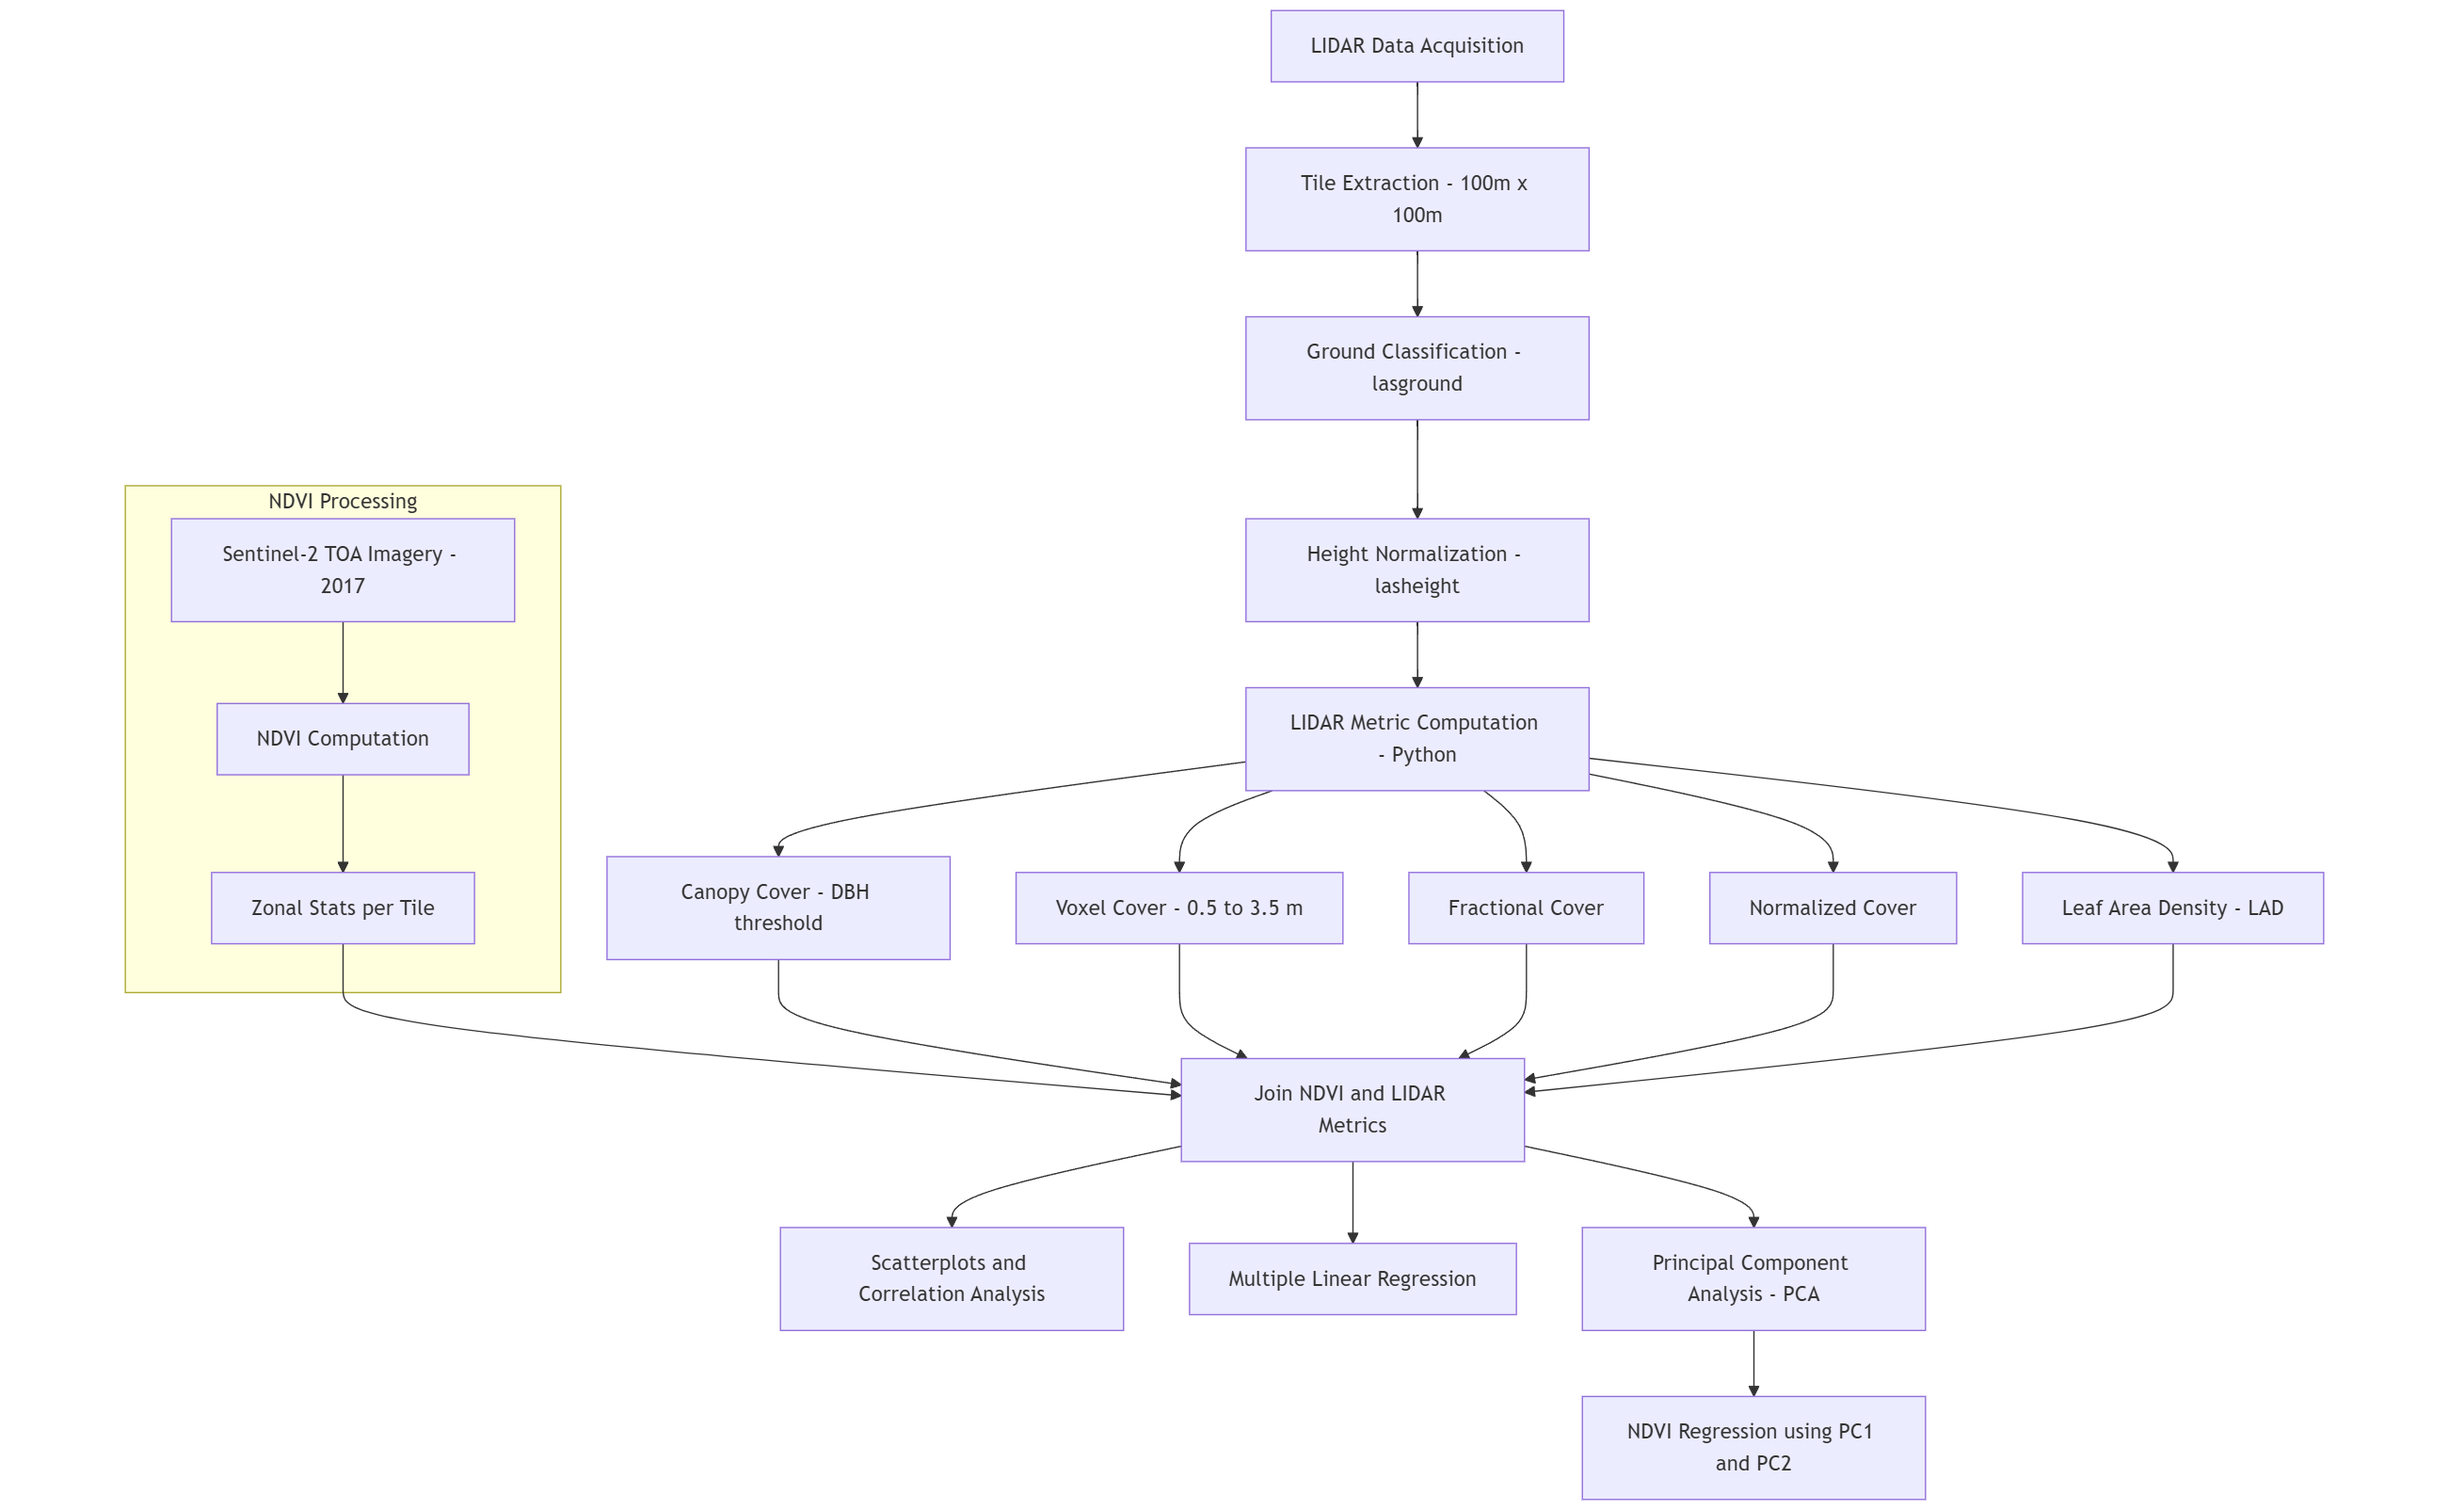
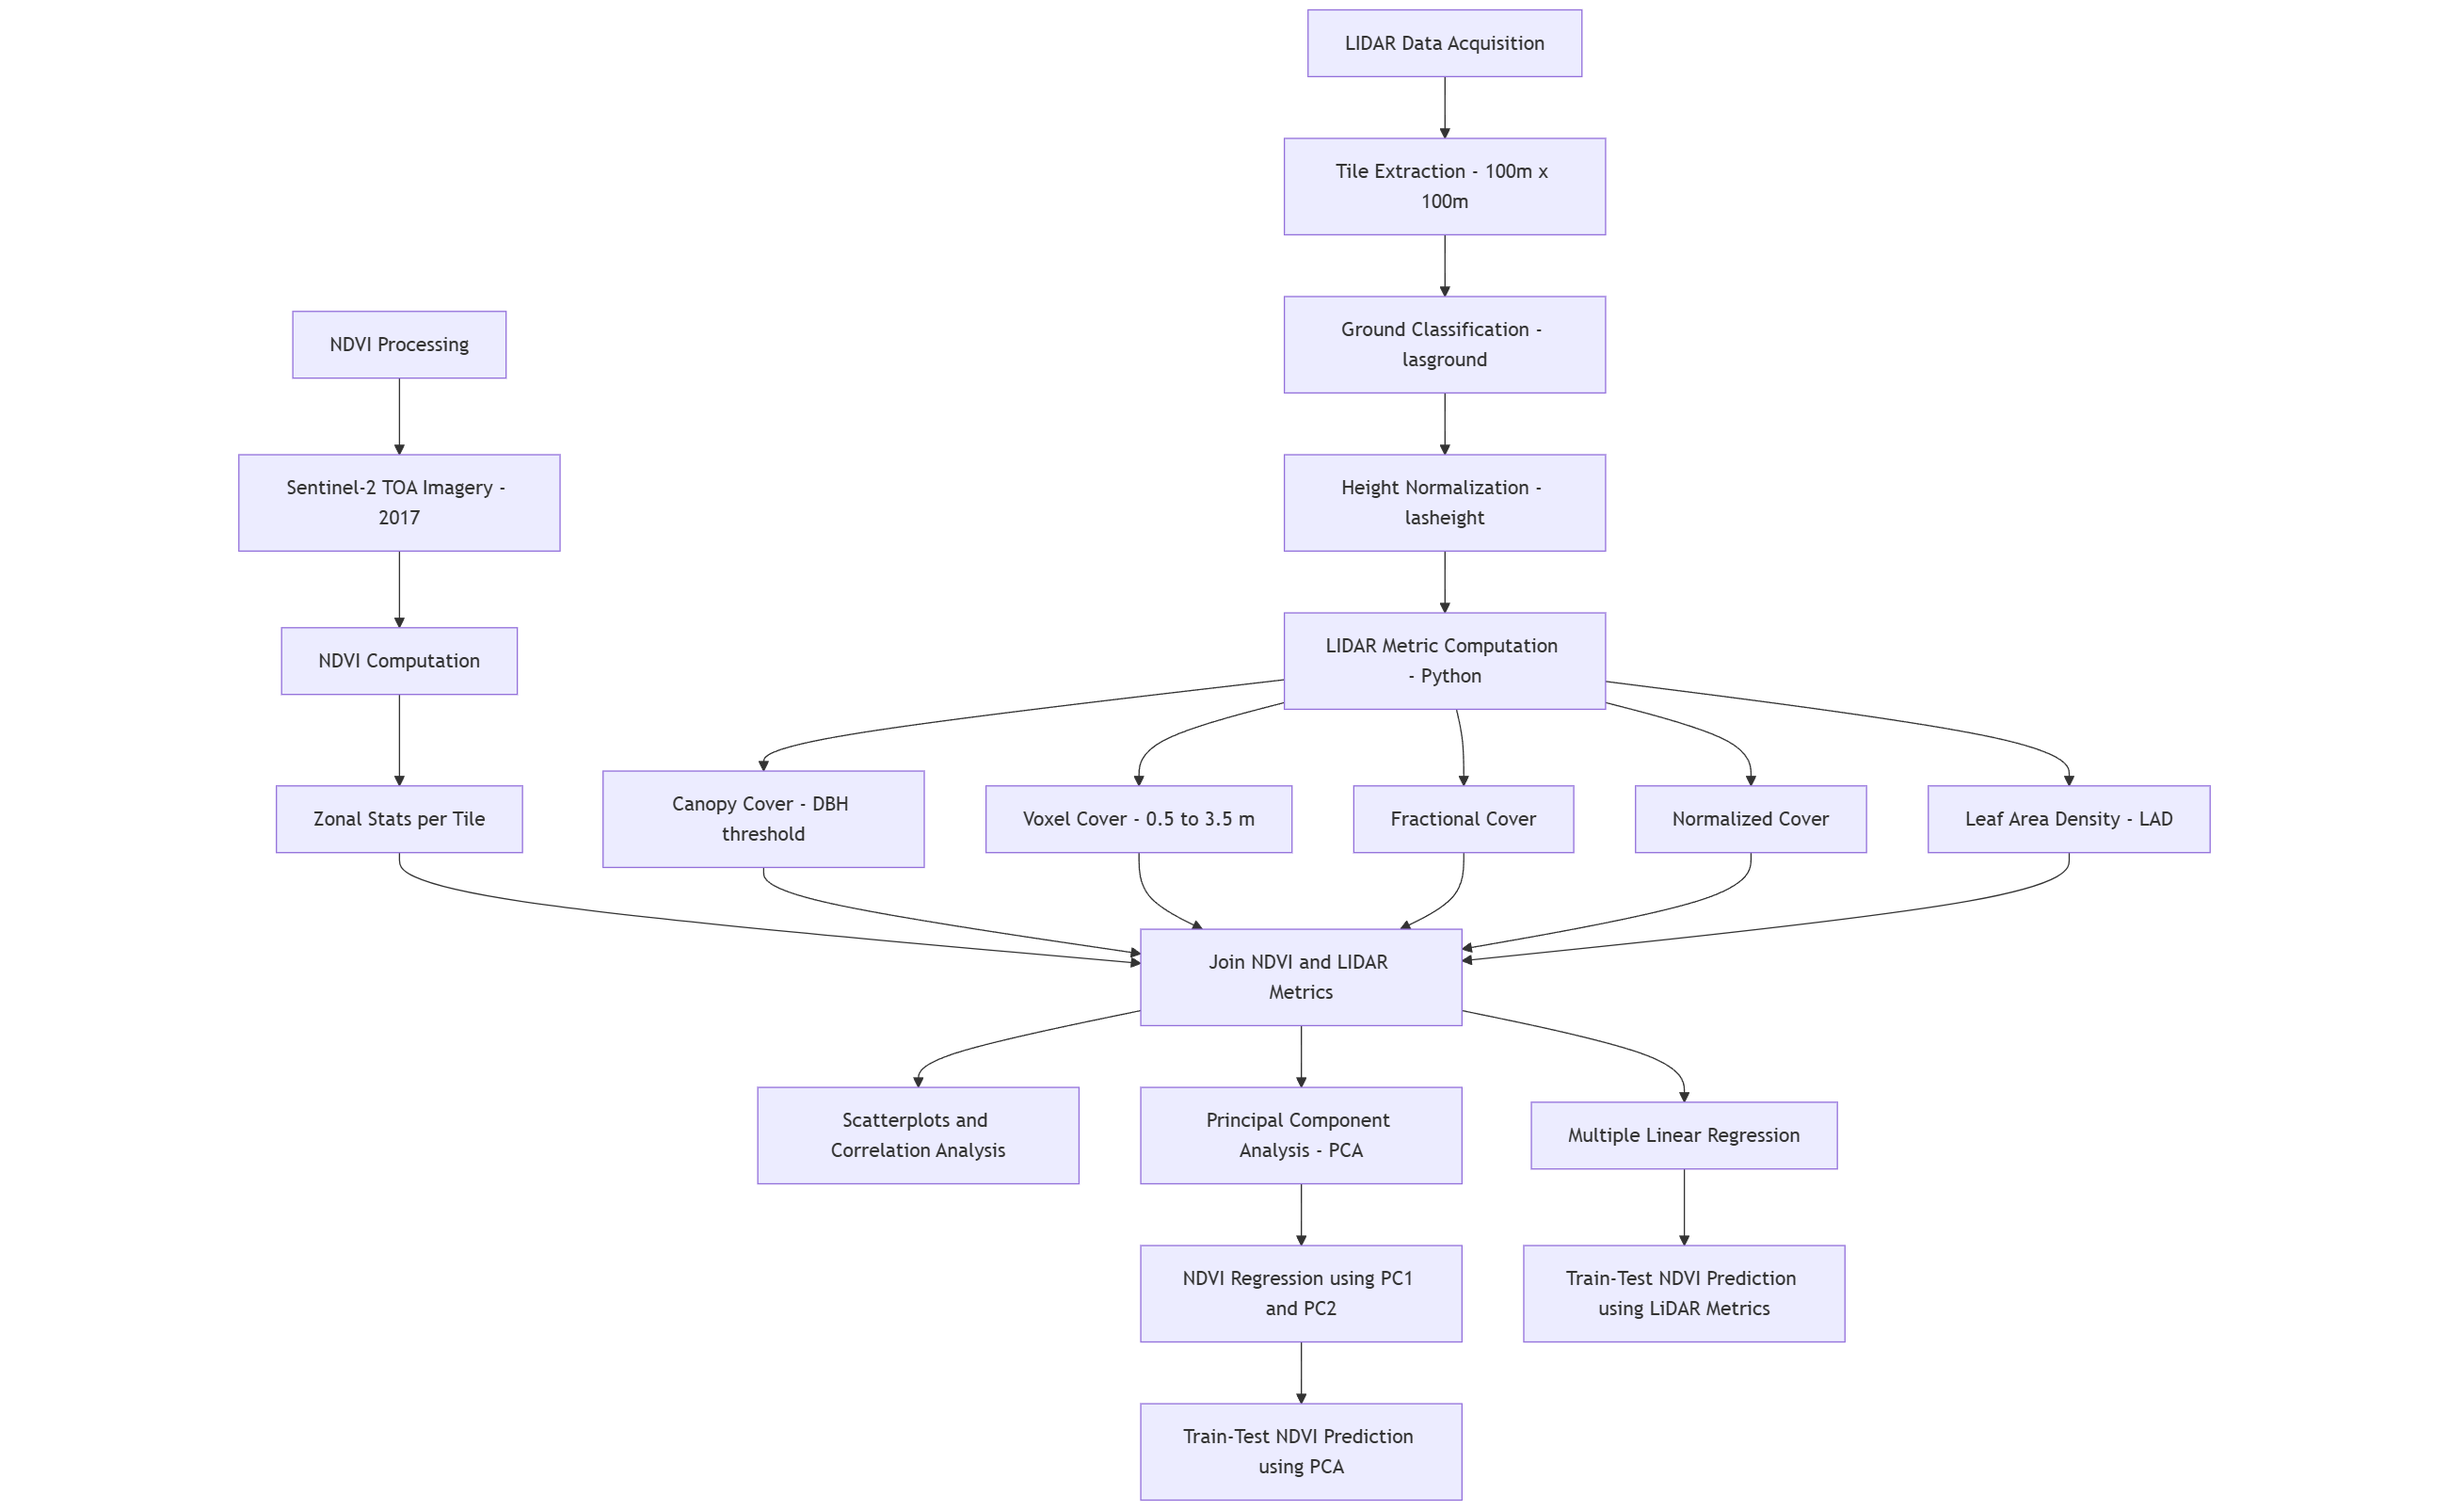
updated methodology and readme

diff --git a/README.md b/README.md
@@ -93,6 +93,10 @@ JOIN --> CORR[Scatterplots and Correlation Analysis]
 JOIN --> MLR[Multiple Linear Regression]
 JOIN --> PCA[Principal Component Analysis - PCA]
 PCA --> PCAreg[NDVI Regression using PC1 and PC2]
+
+%% NEW - Train/Test evaluation
+MLR --> MLRval[Train-Test NDVI Prediction using LiDAR Metrics]
+PCAreg --> PCAval[Train-Test NDVI Prediction using PCA]
 ```
 
 ---
